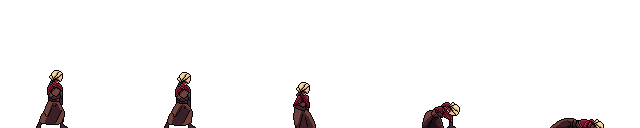
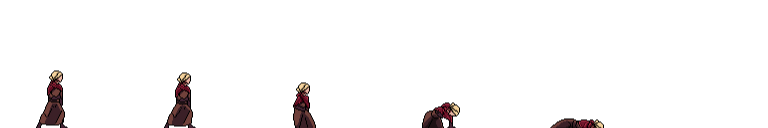
Добавил игроку анимацию смерти

diff --git a/My_Game/Project_Practicum/src/Factory/Factory.cpp b/My_Game/Project_Practicum/src/Factory/Factory.cpp
@@ -10,7 +10,7 @@
 #include "../Entity/Weapon/MagicCharge/MagicCharge.h"
 #include "../Entity/Weapon/LightningStrike/LightningStrike.h"
 
-void Factory::InitSystems(SystemManager& systemManager, sf::RenderWindow& window, sf::View& camera, bool& isBossSpawned)
+void Factory::InitSystems(SystemManager& systemManager, sf::RenderWindow& window, sf::View& camera, bool& isBossSpawned, bool& isPaused)
 {
 	systemManager.AddSystem<InputSystem>();
 	systemManager.AddSystem<WeaponSystem>();
@@ -23,6 +23,7 @@ void Factory::InitSystems(SystemManager& systemManager, sf::RenderWindow& window
 	systemManager.AddSystem<TrailSystem>();
 	systemManager.AddSystem<DamageSystem>();
 	systemManager.AddSystem<ContainerSystem>();
+	systemManager.AddSystem<DeathAnimationSystem>(camera, isPaused);
 
 	systemManager.AddSystem<RenderSystem>(window);
 	systemManager.AddSystem<CameraSystem>(camera);
@@ -121,11 +122,13 @@ void Factory::CreatePlayer(EntityManager& entityManager, sf::Vector2f pos)
 	std::vector<sf::Texture> walkFrames = TextureManager::GetTextures("assets/character/Walk.png", 128, 128);
 	std::vector<sf::Texture> idleFrames = TextureManager::GetTextures("assets/character/Idle.png", 128, 128);
 	std::vector<sf::Texture> hurtFrames = TextureManager::GetTextures("assets/character/Hurt.png", 128, 128);
+	std::vector<sf::Texture> deadFrames = TextureManager::GetTextures("assets/character/Dead.png", 128, 128);
 
 	auto animation = player.GetComponent<AnimationComponent>();
 	animation->AddAnimation(AnimationComponent::IDLE, idleFrames);
 	animation->AddAnimation(AnimationComponent::WALK, walkFrames);
 	animation->AddAnimation(AnimationComponent::HURT, hurtFrames);
+	animation->AddAnimation(AnimationComponent::DEAD, deadFrames);
 
 	player.AddComponent<DrawableComponent>(idleFrames[0], sf::Vector2f(1.1f, 1.1f));
 

diff --git a/My_Game/Project_Practicum/src/System/DeathAnimation/DeathAnimationSystem.cpp b/My_Game/Project_Practicum/src/System/DeathAnimation/DeathAnimationSystem.cpp
@@ -1,0 +1,43 @@
+#include "DeathAnimationSystem.h"
+
+void DeathAnimationSystem::Render(EntityManager& entityManager, float deltaTime)
+{
+	for (auto& entity : entityManager.GetEntitiesWithComponents<AnimationComponent, DeathAnimationComponent>())
+	{
+		auto deathAnimation = entity->GetComponent<DeathAnimationComponent>();
+		auto animation = entity->GetComponent<AnimationComponent>();
+
+		if (!deathAnimation->isCompleted)
+		{
+			if (animation->currentFrameIndex == 0 && deathAnimation->elapsedTime == 0.0f)
+			{
+				mIsPaused = true;
+				mIsZoomed = true;
+				deathAnimation->currentZoom = INITIAL_ZOOM;
+			}
+
+			float zoomStep = (TARGET_ZOOM - INITIAL_ZOOM) / (ZOOM_DURATION / deltaTime);
+
+			if (deathAnimation->elapsedTime < ZOOM_DURATION)
+			{
+				mCamera.zoom(1.0f + zoomStep);
+				deathAnimation->currentZoom += zoomStep;
+				deathAnimation->elapsedTime += deltaTime;
+			}
+
+			if (animation->currentFrameIndex == animation->animations[AnimationComponent::DEAD].size() - 1 && mIsZoomed)
+			{
+				mCamera.zoom(1.0f / deathAnimation->currentZoom);
+				animation->frameTime = 0.0f;
+				mIsZoomed = false;
+			}
+
+			if (animation->currentFrameIndex == animation->animations[AnimationComponent::DEAD].size())
+			{
+				mIsPaused = false;
+				deathAnimation->isCompleted = true;
+				entity->AddComponent<GameOverComponent>();
+			}
+		}
+	}
+}

diff --git a/My_Game/Project_Practicum/src/System/Lifetime/LifetimeSystem.cpp b/My_Game/Project_Practicum/src/System/Lifetime/LifetimeSystem.cpp
@@ -6,8 +6,20 @@ void LifetimeSystem::Update(EntityManager& entityManager, float deltaTime)
 {
 	std::vector<Entity::IdType> entitiesToDelete;
 
-	auto player = entityManager.GetEntitiesWithComponents<PlayerHealthComponent>();
-	auto playerHealth = player.front()->GetComponent<PlayerHealthComponent>();
+	for (auto& player : entityManager.GetEntitiesWithType(Player))
+	{
+		auto animation = player->GetComponent<AnimationComponent>();
+		auto playerHealth = player->GetComponent<PlayerHealthComponent>();
+		auto deathAnimation = player->GetComponent<DeathAnimationComponent>();
+
+		if (playerHealth != nullptr && !playerHealth->IsAlive() && deathAnimation == nullptr)
+		{
+			animation->SetState(AnimationComponent::DEAD);
+			animation->frameTime = 0.45f;
+			animation->loop = false;
+			player->AddComponent<DeathAnimationComponent>();
+		}
+	}
 
 	for (auto& entity : entityManager.GetEntities())
 	{

diff --git a/My_Game/Project_Practicum/src/Game.cpp b/My_Game/Project_Practicum/src/Game.cpp
@@ -7,7 +7,7 @@
 
 void Game::InitSystems()
 {
-	Factory::InitSystems(mSystemManager, mWindow, mCamera, mIsBossSpawned);
+	Factory::InitSystems(mSystemManager, mWindow, mCamera, mIsBossSpawned, mIsPaused);
 }
 
 void Game::InitPlayer()
@@ -81,15 +81,7 @@ void Game::ProcessEvents()
 
 bool Game::IsPlayerDefeated()
 {
-	auto player = mEntityManager.GetEntitiesWithComponents<PlayerHealthComponent>();
-
-	if (player.empty())
-	{
-		return true;
-	}
-
-	auto health = player.front()->GetComponent<PlayerHealthComponent>();
-	return !health->IsAlive();
+	return mEntityManager.GetEntitiesWithComponents<GameOverComponent>().size();
 }
 
 bool Game::HasPlayerLeveledUp()

diff --git a/My_Game/Project_Practicum/src/Factory/Factory.h b/My_Game/Project_Practicum/src/Factory/Factory.h
@@ -9,7 +9,7 @@ class SystemManager;
 class Factory
 {
 public:
-	static void InitSystems(SystemManager& systemManager, sf::RenderWindow& window, sf::View& camera, bool& isBossSpawned);
+	static void InitSystems(SystemManager& systemManager, sf::RenderWindow& window, sf::View& camera, bool& isBossSpawned, bool& isPaused);
 	static std::unique_ptr<Weapon> CreateWeapon(const std::string& weaponName);
 	static void CreateEnemy(EntityManager& entityManager, sf::Vector2f pos);
 	static void CreateBoss(EntityManager& entityManager, sf::Vector2f pos);

diff --git a/My_Game/Project_Practicum/src/System/DeathAnimation/DeathAnimationSystem.h b/My_Game/Project_Practicum/src/System/DeathAnimation/DeathAnimationSystem.h
@@ -1,0 +1,20 @@
+#pragma once
+
+#include "../System.h"
+
+class DeathAnimationSystem : public IRenderSystem
+{
+public:
+	DeathAnimationSystem(sf::View& camera, bool& isPaused) : mCamera(camera), mIsPaused(isPaused) {}
+	void Render(EntityManager& entityManager, float deltaTime) override;
+
+private:
+	const float INITIAL_ZOOM = 1.f;
+	const float TARGET_ZOOM = 0.75f;
+	const float ZOOM_DURATION = 0.5f;
+
+	bool mIsZoomed = false;
+	bool& mIsPaused;
+
+	sf::View& mCamera;
+};

diff --git a/My_Game/Project_Practicum/src/manager/system/SystemManager.h b/My_Game/Project_Practicum/src/manager/system/SystemManager.h
@@ -13,6 +13,7 @@
 #include "../../System/Lifetime/LifetimeSystem.h"
 #include "../../System/Container/ContainerSystem.h"
 #include "../../System/Collision/CollisionSystem.h"
+#include "../../System/DeathAnimation/DeathAnimationSystem.h"
 #include "../../System/HomingProjectile/HomingProjectileSystem.h"
 #include "../../System/OrbitalProjectile/OrbitalProjectileSystem.h"
 

diff --git a/My_Game/Project_Practicum/ui/Map/Map.cpp b/My_Game/Project_Practicum/ui/Map/Map.cpp
@@ -1,4 +1,5 @@
 #include "Map.h"
+
 #include "../../src/Manager/Texture/TextureManager.h"
 #include <iostream>
 #include <cmath>
